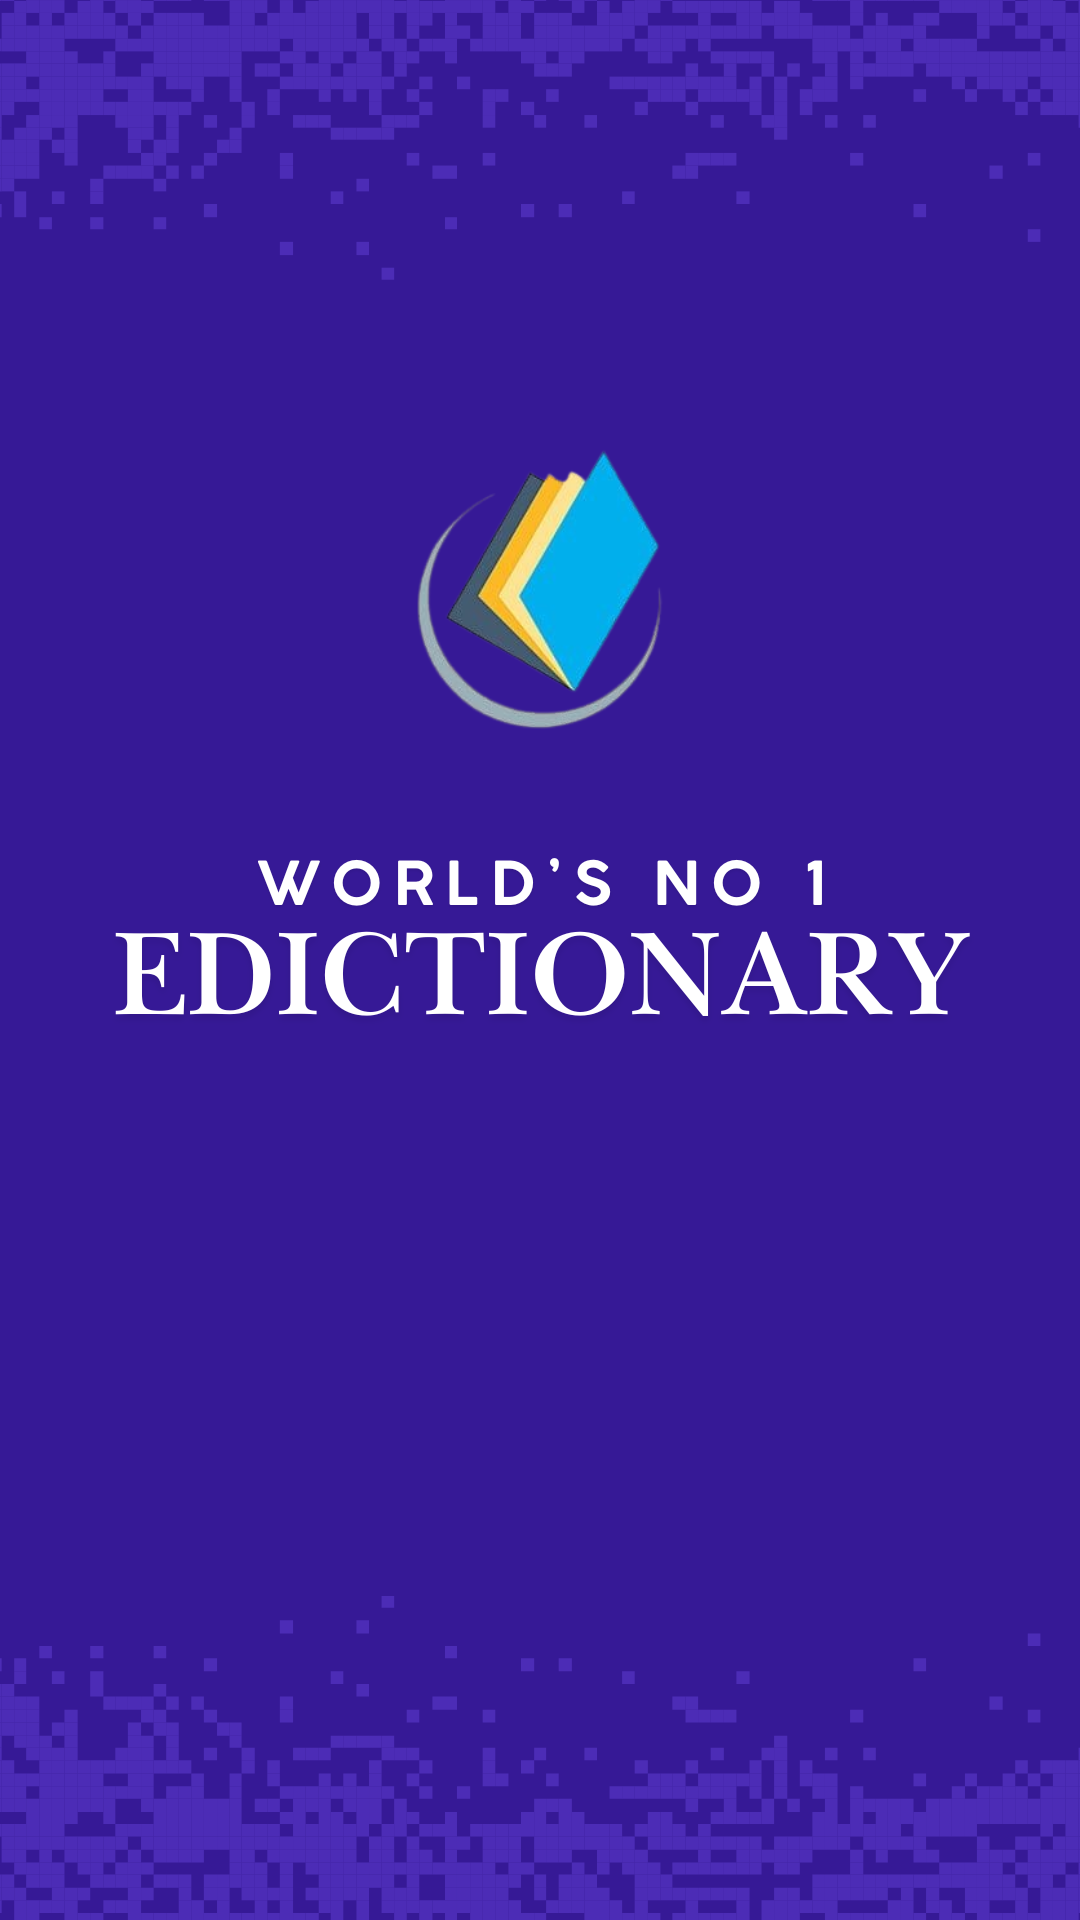
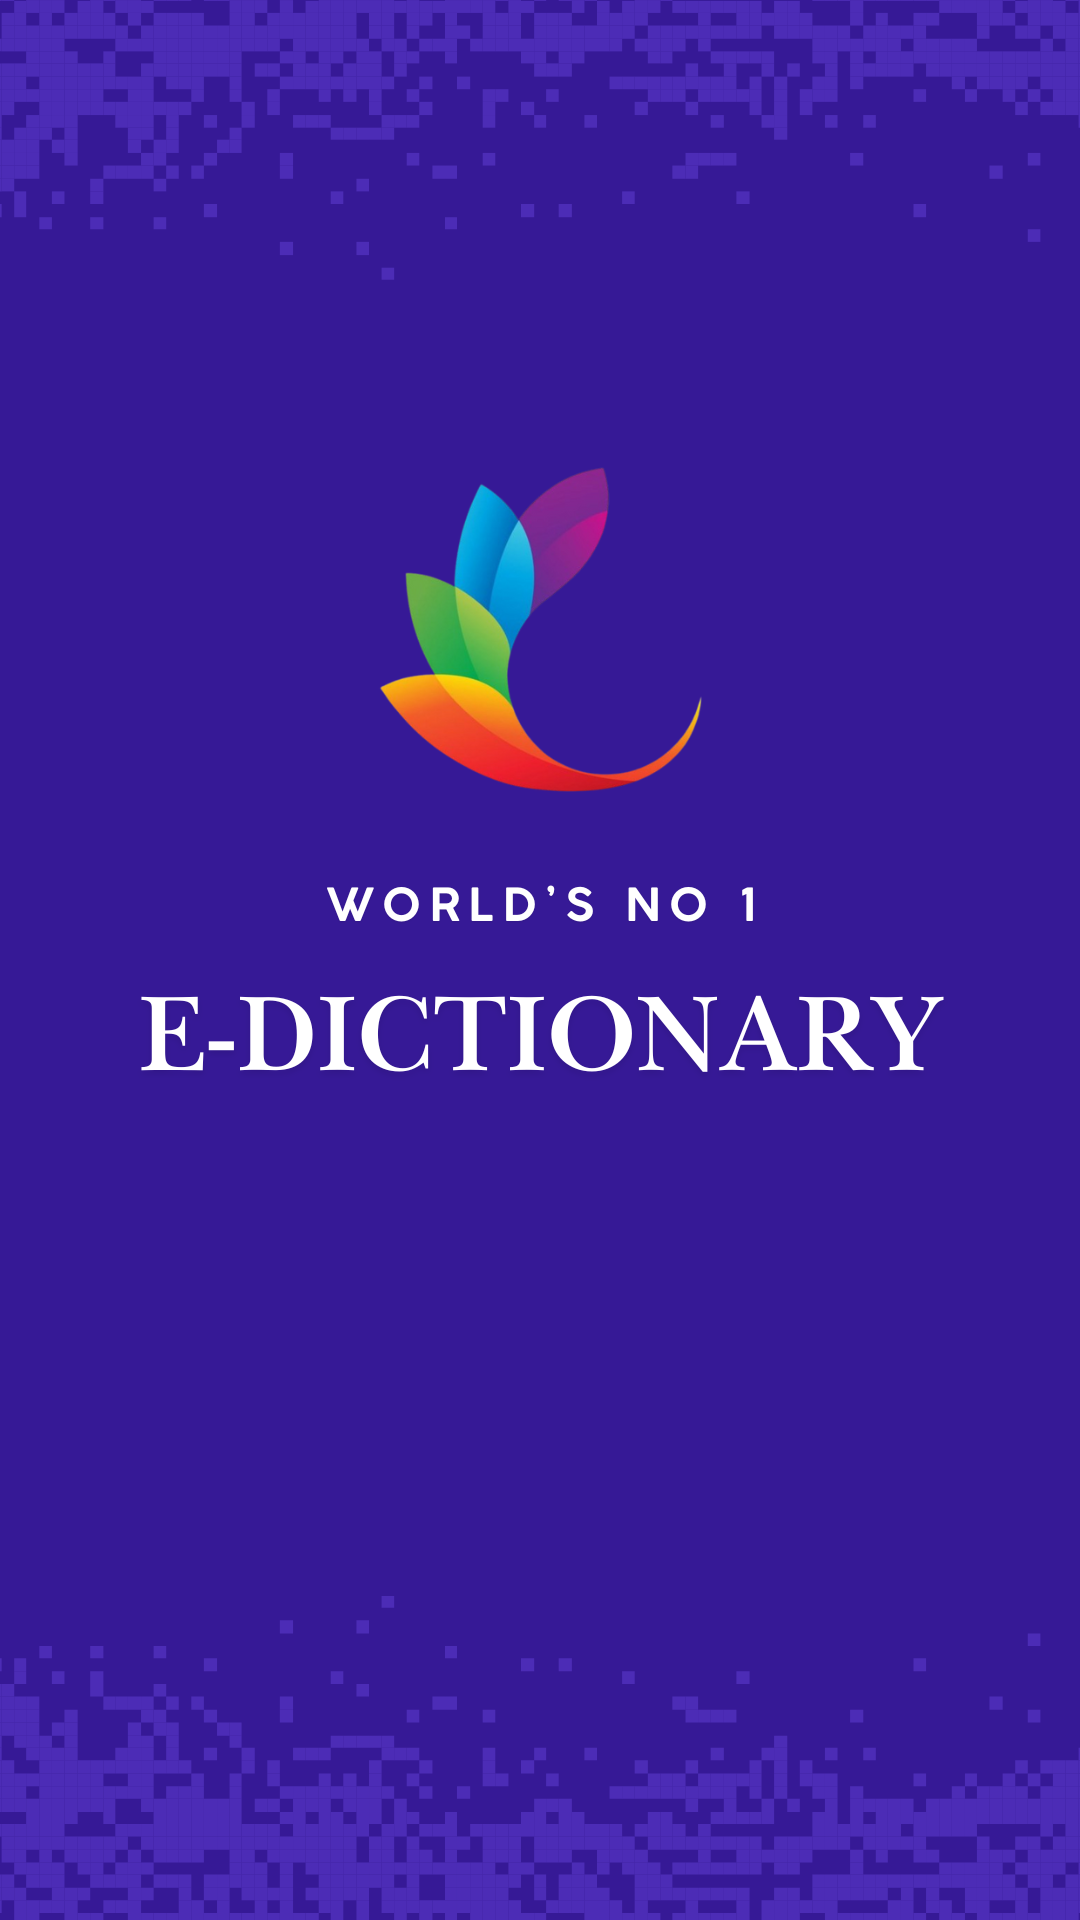
add style to starting page and change cover photo

Changed region(s): [[0.0917, 0.2188, 0.8861, 0.5625]]

diff --git a/DicMobileApp/components/Startpage.js b/DicMobileApp/components/Startpage.js
@@ -1,6 +1,7 @@
-import { StyleSheet, View, ScrollView, Image } from "react-native";
+import { StyleSheet, View, ScrollView, Image, Dimensions } from "react-native";
 import { PaperProvider } from "react-native-paper";
 
+const {width, height} = Dimensions.get("window");
 
 export default function Startpage() {
   return (
@@ -8,7 +9,7 @@ export default function Startpage() {
         <ScrollView>
             <View style={styles.container}>
             <Image source={require("../assets/startbanner.png")}
-            resizeMode="contain" style={styles.bannerimage}
+            resizeMode="cover" style={styles.bannerimage}
             />
             </View>
         </ScrollView>
@@ -23,7 +24,8 @@ const styles = StyleSheet.create({
     alignItems: "center",
     justifyContent: "center",
   },
-  bannerimage:{
-    
-  }
+  bannerimage: {
+    width: width , 
+    height: height ,
+  },
 });
